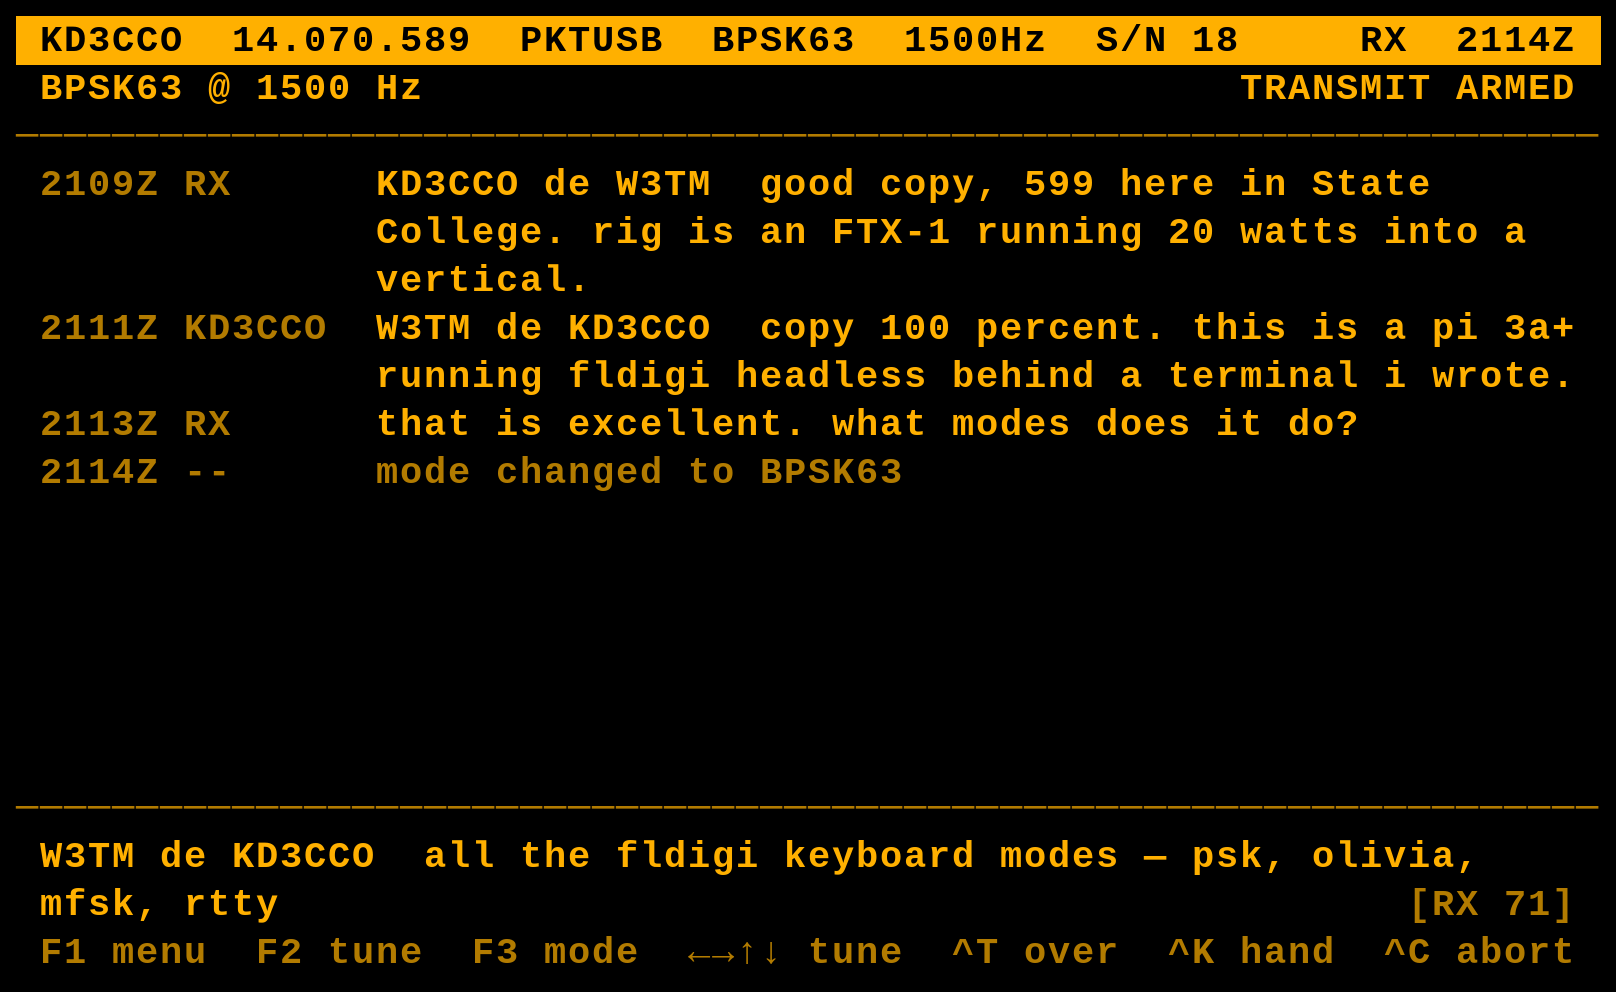
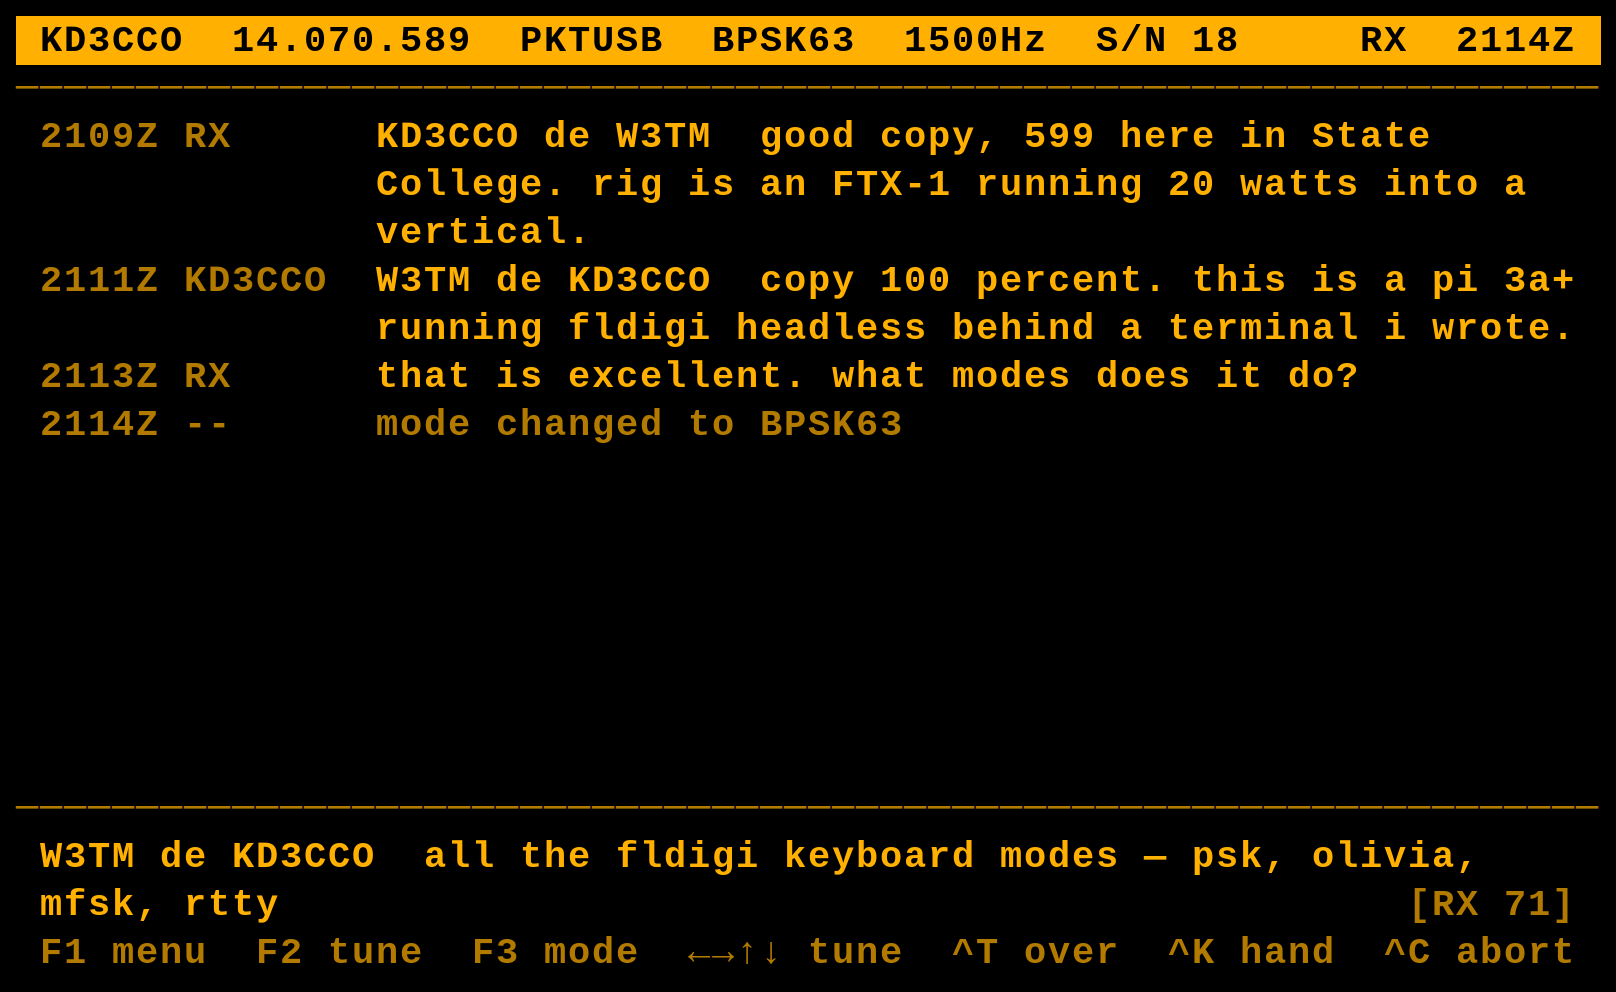
debugging rigctrl

Changed region(s): [[0.0309, 0.0625, 0.9901, 0.5], [0.0, 0.0625, 0.2785, 0.2188], [0.0309, 0.4688, 0.0928, 0.5]]

diff --git a/cyberdeck.py b/cyberdeck.py
@@ -124,21 +124,18 @@ class Deck:
 
     def _draw_chat(self, h, w):
         compose_h = 2
-        # status, banner, rule, rule, compose, hints
-        body_h = h - 1 - 1 - 1 - 1 - compose_h - 1
+        body_h = h - 1 - 1 - 1 - compose_h - 1   # status, rule, rule, compose, hints
 
         self._put(0, 0, render.status_line(self.status_fields(), w), w)
-        self._put(1, 0, render.banner(self.fldigi.modem(), self.fldigi.carrier(),
-                                      self.session.inhibited, w), w)
-        self._put(2, 0, render.rule(w), w)
+        self._put(1, 0, render.rule(w), w)
 
         lines = render.transcript_lines(
             self.session.entries, w, body_h,
             timestamps=self.cfg["TIMESTAMPS"] == "yes", scroll=self.scroll)
         for i, line in enumerate(lines):
-            self._put(3 + i, 0, line, w)
+            self._put(2 + i, 0, line, w)
 
-        rule_row = 3 + body_h
+        rule_row = 2 + body_h
         self._put(rule_row, 0, render.rule(w), w)
 
         clines, (crow, ccol) = render.compose_lines(
@@ -156,8 +153,7 @@ class Deck:
         f = self.fldigi
         self._put(0, 0, render.status_line(
             {**self.status_fields(), "call": "TUNING"}, w), w)
-        self._put(1, 0, render.banner(f.modem(), f.carrier(),
-                                      self.session.inhibited, w), w)
+        self._put(1, 0, render.rule(w), w)
 
         q = f.quality()
         bar_w = max(10, w - 22)
@@ -422,10 +418,8 @@ class Deck:
         if m == "radio":
             hz = menus.BAND_FREQUENCIES.get(key)
             if hz:
-                f.set_frequency(hz)
+                self._set_vfo(hz, label=render.frequency(hz))
                 self._set_rig_mode()
-                self.session.note(f"VFO set to {render.frequency(hz)} "
-                                  f"{f.rig_mode()}")
                 self._close_menu()
             return True
 
@@ -444,6 +438,33 @@ class Deck:
             return True
 
         return True
+
+    def _set_vfo(self, hz, label=None):
+        """Command the radio's VFO and check it actually went there.
+
+        fldigi keeps its own frequency and refreshes it from the rig, so a
+        command the radio ignores shows up as the deck's number snapping back
+        a moment later — which reads as the deck fighting the radio when it is
+        really the radio declining.
+
+        This asks once and reports the result. It deliberately does NOT
+        re-assert: a loop that re-sends whenever the readback disagrees cannot
+        tell a rejected command from the operator turning the knob, so it
+        would fight a deliberate manual tune and never let go. One command,
+        one answer, and the truth on screen.
+        """
+        hz = int(hz)
+        self.fldigi.set_frequency(hz)
+        time.sleep(0.35)          # let the command reach the rig and read back
+        got = int(self.fldigi.frequency() or 0)
+        where = label or render.frequency(hz)
+        if abs(got - hz) <= 5:
+            self.session.note(f"VFO {render.frequency(got)}"
+                              + (f"  {self.fldigi.rig_mode()}" if label else ""))
+            return True
+        self.session.note(f"VFO {where} refused — radio stayed on "
+                          f"{render.frequency(got)}")
+        return False
 
     def _search(self, fn, direction):
         """Run fldigi's signal search and say what happened.
@@ -520,13 +541,13 @@ class Deck:
         elif ch == ord("x"):
             f.set_txid(not f.txid())
         elif ch == ord(","):
-            f.set_frequency(f.frequency() - 100)
+            self._set_vfo(f.frequency() - 100)
         elif ch == ord("."):
-            f.set_frequency(f.frequency() + 100)
+            self._set_vfo(f.frequency() + 100)
         elif ch == ord("<"):
-            f.set_frequency(f.frequency() - 1000)
+            self._set_vfo(f.frequency() - 1000)
         elif ch == ord(">"):
-            f.set_frequency(f.frequency() + 1000)
+            self._set_vfo(f.frequency() + 1000)
         elif ch == 17:
             return False
         return True

diff --git a/capture_screens.py b/capture_screens.py
@@ -18,11 +18,8 @@ W, H = 66, 20
 def compose_chat(session, fields, width=W, height=H, timestamps=True):
     """The chat screen, assembled exactly as Deck._draw_chat assembles it."""
     compose_h = 2
-    body_h = height - 1 - 1 - 1 - 1 - compose_h - 1
-    out = [render.status_line(fields, width),
-           render.banner(fields.get("mode", ""), 1500,
-                         fields.get("state") == "INH", width),
-           render.rule(width)]
+    body_h = height - 1 - 1 - 1 - compose_h - 1
+    out = [render.status_line(fields, width), render.rule(width)]
     out += render.transcript_lines(session.entries, width, body_h, timestamps)
     out.append(render.rule(width))
     clines, _ = render.compose_lines(
@@ -81,7 +78,7 @@ def tuning_screen(width=W, height=H):
         "  AFC on    squelch on  (5)   RSID on    TXID on",
     ]
     lines = [render.status_line({**FIELDS, "call": "TUNING"}, width),
-             render.banner(FIELDS.get("mode", ""), 1500, False, width)]
+             render.rule(width)]
     for r in rows:
         lines.append([(r[:width - 1], "bright")])
     while len(lines) < height - 4:

diff --git a/render.py b/render.py
@@ -142,26 +142,6 @@ def mode_bandwidth(name, reported=0):
     return "\u2014"
 
 
-def banner(mode, carrier, inhibited, width):
-    """The row under the status line: what mode, and whether we can transmit.
-
-    Transmit state earns a row of its own rather than a three-letter field.
-    Whether the radio can be keyed is the one thing that should never have to
-    be hunted for, and the mode in use is what a second operator asks about
-    first.
-    """
-    left = f" {mode}"
-    if carrier:
-        left += f" @ {carrier} Hz"
-    right = "** TRANSMIT INHIBITED **" if inhibited else "TRANSMIT ARMED"
-    pad = width - len(left) - len(right) - 1
-    if pad < 1:
-        right = "** INHIBITED **" if inhibited else "ARMED"
-        pad = max(1, width - len(left) - len(right) - 1)
-    kind = "reverse" if inhibited else "bright"
-    return [(left, "bright"), (" " * pad, "dim"), (right, kind), (" ", "dim")]
-
-
 def status_line(fields, width):
     """The top line: one row, always visible, reverse video.
 

diff --git a/docs/screens.md b/docs/screens.md
@@ -3,7 +3,6 @@
 ```
 ┌──────────────────────────────────────────────────────────────────┐
 │ KD3CCO  14.070.589  PKTUSB  BPSK63  1500Hz  S/N 18     RX  2114Z │
-│ BPSK63 @ 1500 Hz                                  TRANSMIT ARMED │
 │──────────────────────────────────────────────────────────────────│
 │ 2109Z RX      KD3CCO de W3TM  good copy, 599 here in State       │
 │               College. rig is an FTX-1 running 20 watts into a   │
@@ -12,6 +11,7 @@
 │               running fldigi headless behind a terminal i wrote. │
 │ 2113Z RX      that is excellent. what modes does it do?          │
 │ 2114Z --      mode changed to BPSK63                             │
+│                                                                  │
 │                                                                  │
 │                                                                  │
 │                                                                  │
@@ -30,7 +30,7 @@
 ```
 ┌──────────────────────────────────────────────────────────────────┐
 │ TUNING  14.070.589  PKTUSB  BPSK63  1500Hz  S/N 18     RX  2114Z │
-│ BPSK63 @ 1500 Hz                                  TRANSMIT ARMED │
+│──────────────────────────────────────────────────────────────────│
 │  rig      14.070.589  PKTUSB                                     │
 │  carrier  1500 Hz        width  63 Hz                            │
 │  S/N      18 dB                                                  │

diff --git a/operating_tutorial.md b/operating_tutorial.md
@@ -492,17 +492,21 @@ The status row is **a filled bar — black text on the scheme's color**. If it
 ever renders as one solid block of color with no readable text, that is a
 contrast fault in the color pair, not an empty bar.
 
-**The second row** carries the two things that should never need hunting for:
-the **mode** in use with its carrier offset, and whether the radio can be
-keyed.
+`INH` in the state field is the transmit inhibit. If you press `Ctrl-T` and
+nothing happens, that is the first place to look.
+
+**When the deck commands the VFO**, it reads the frequency back and says what
+happened:
 
 ```
- BPSK31 @ 1500 Hz                        ** TRANSMIT INHIBITED **
- BPSK31 @ 1500 Hz                                  TRANSMIT ARMED
+VFO 14.070.000  PKTUSB
+VFO 14.070.000 refused — radio stayed on 14.071.885
 ```
 
-`** TRANSMIT INHIBITED **` is drawn in reverse video. If you press `Ctrl-T` and
-nothing happens, this row is the first place to look.
+The second line means the radio declined the command. The deck asks once and
+reports; it does not re-send. A retry loop cannot tell a refused command from
+you turning the knob, so it would fight a deliberate manual tune and never let
+go.
 
 The bottom row lists the active key bindings, shedding entries as the width
 shrinks.
